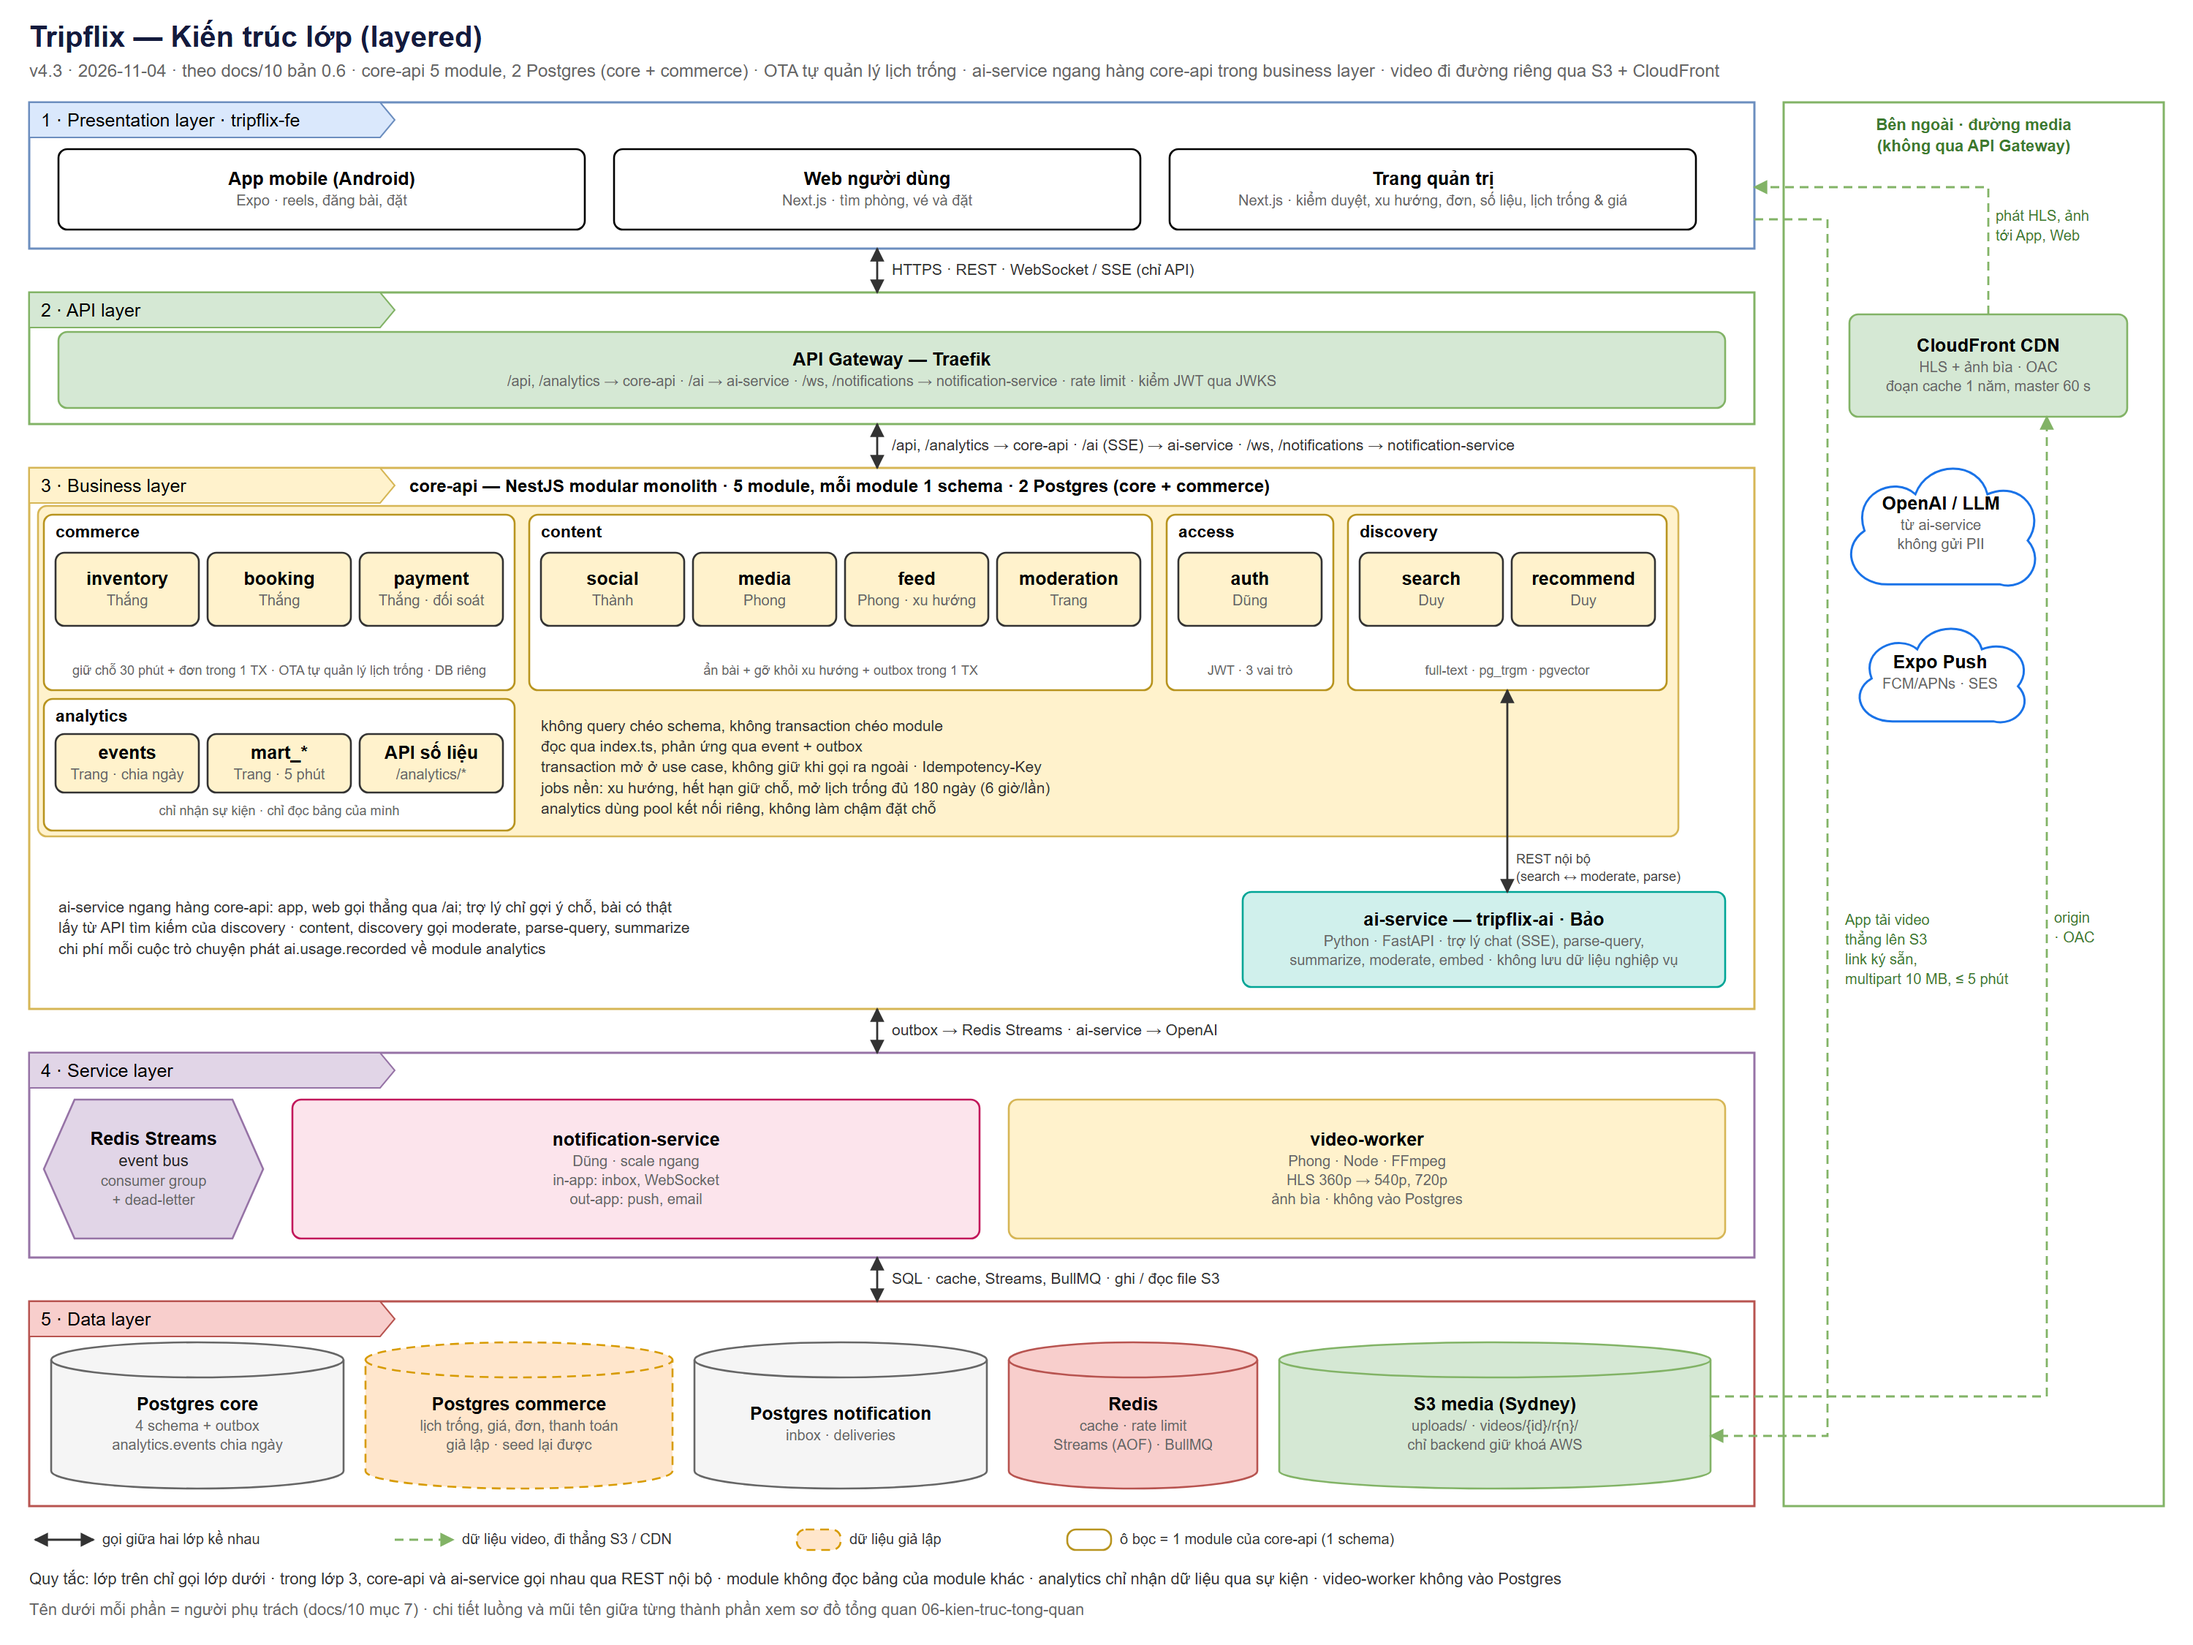
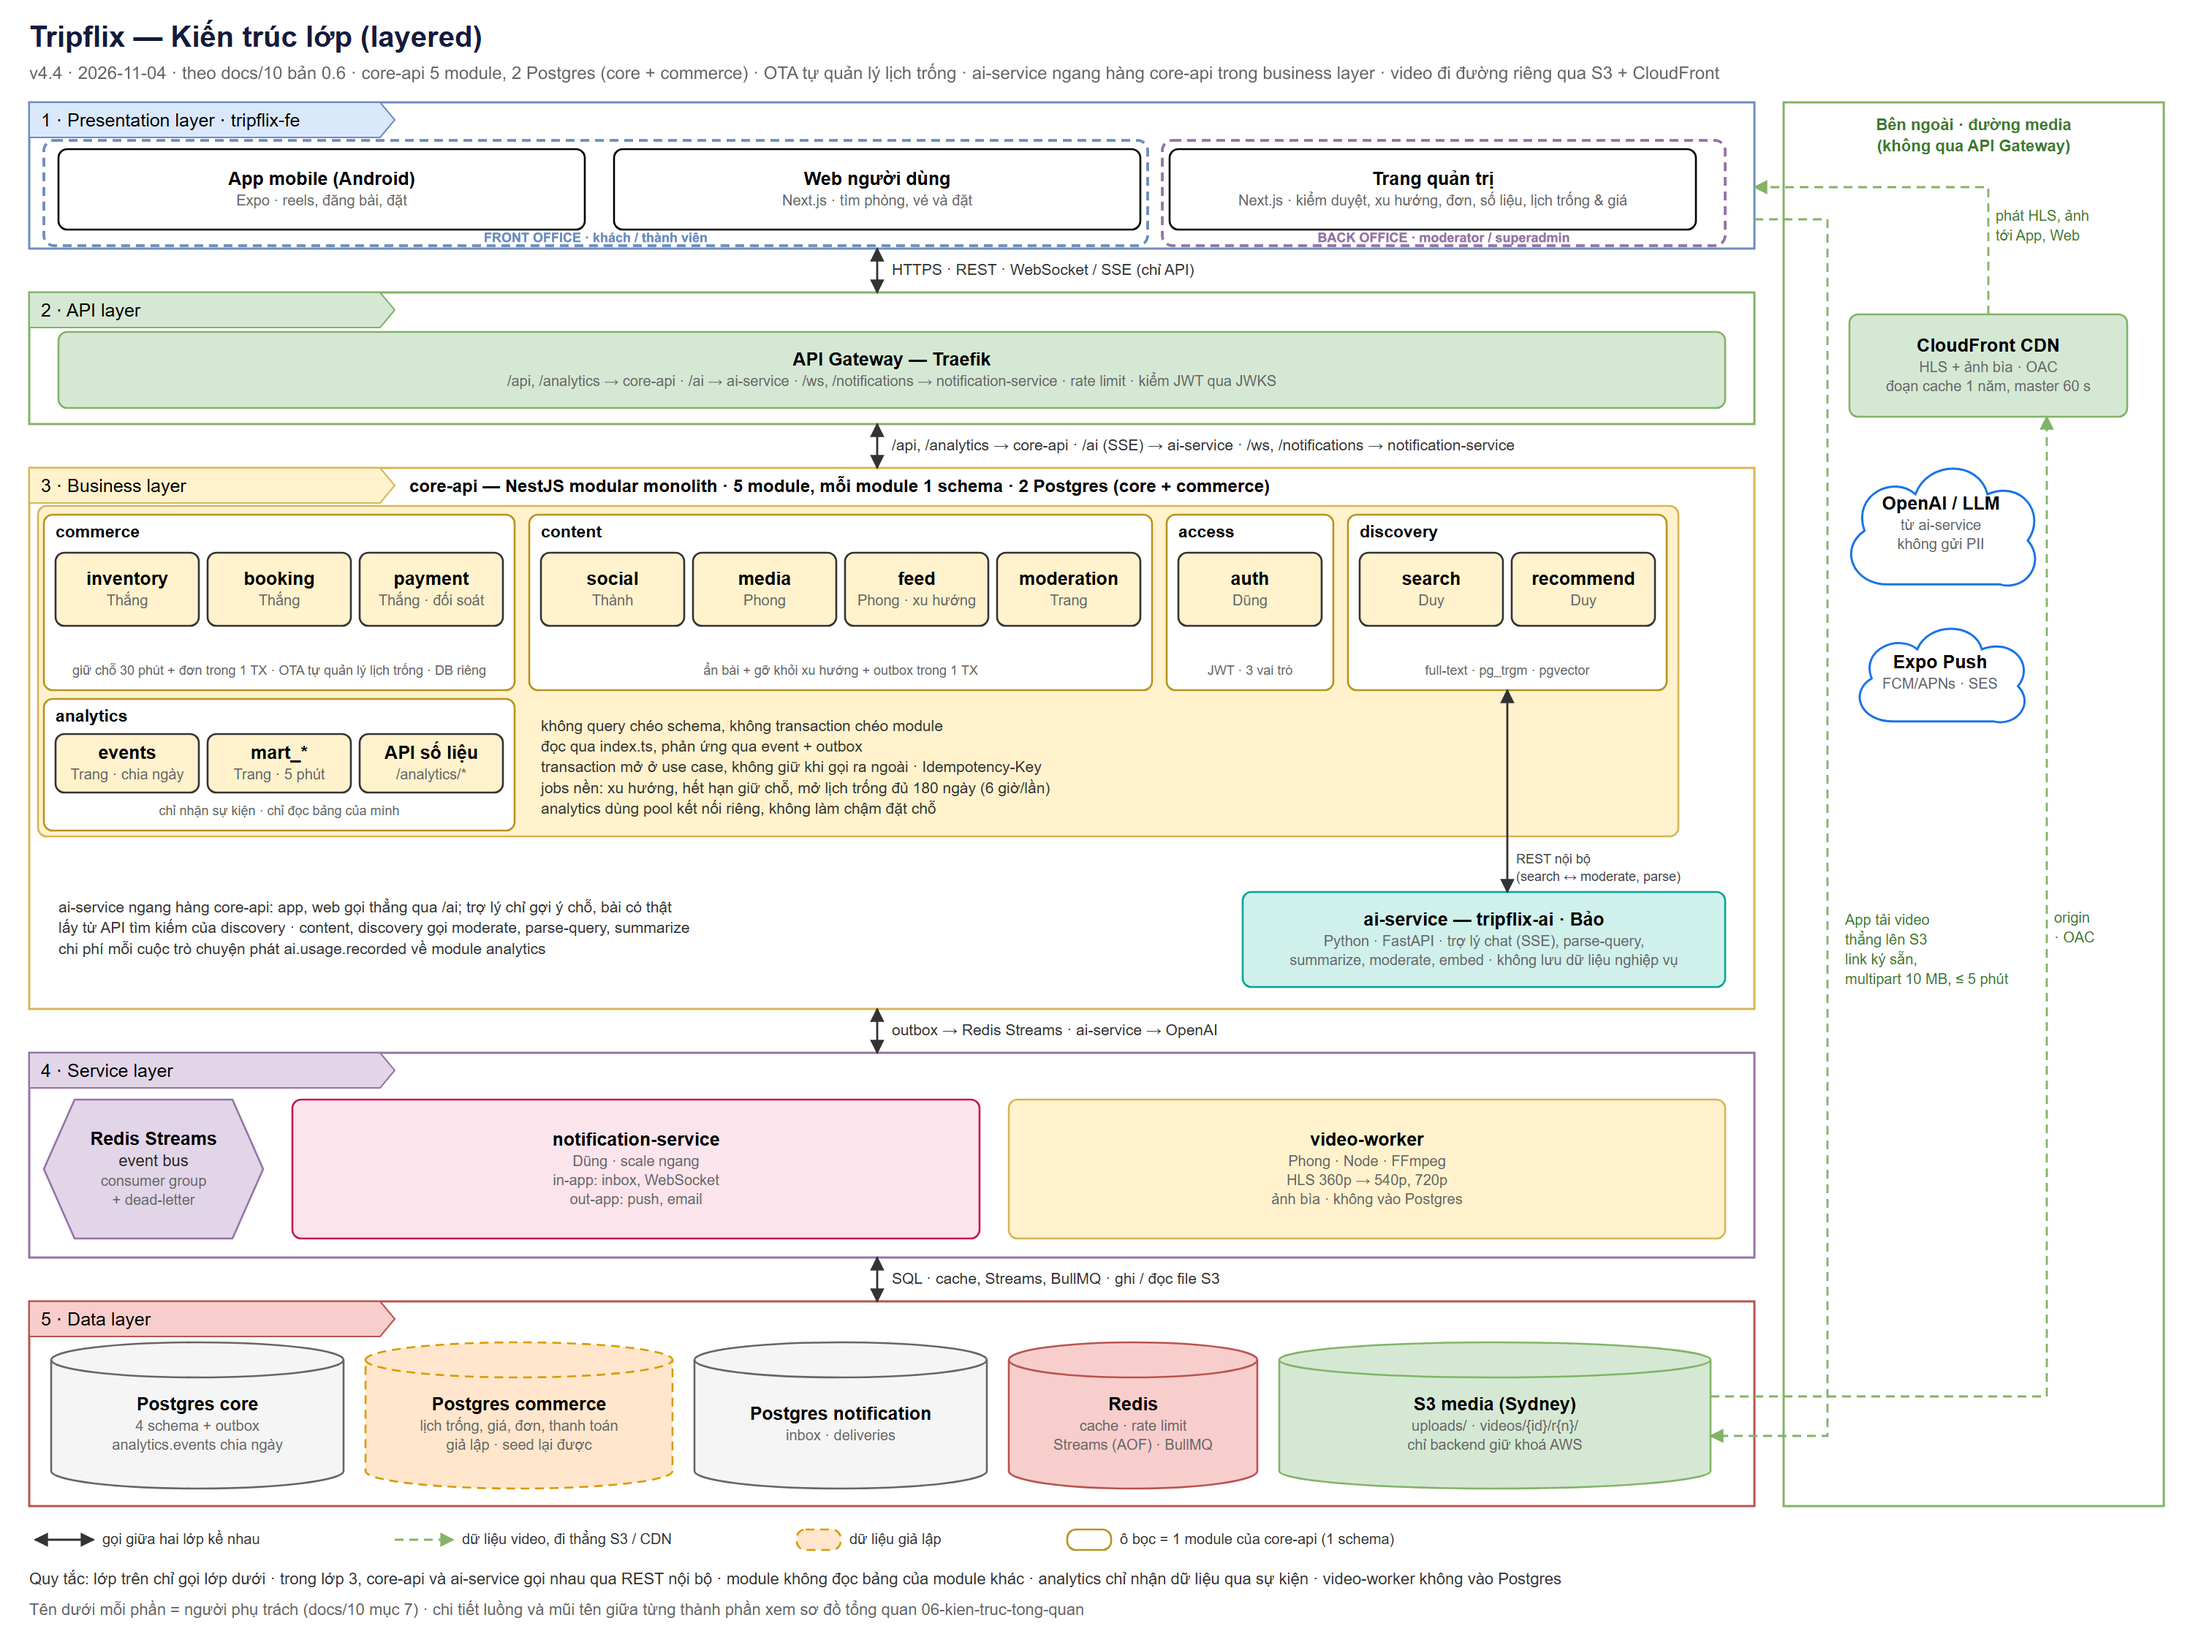
docs(repo): tách rõ Front Office và Back Office (TF57)
Phân nhóm app người dùng và admin trong sơ đồ; ghi rõ role và gateway dùng chung.

Refs: TF57

Changed region(s): [[0.031, 0.0311, 0.775, 0.0622], [0.589, 0.1244, 0.713, 0.1556], [0.217, 0.1244, 0.31, 0.1556]]

diff --git a/docs/architecture/10-de-xuat-kien-truc-va-repo.md b/docs/architecture/10-de-xuat-kien-truc-va-repo.md
@@ -66,10 +66,12 @@ Nguyên tắc chia module: **những gì phải đổi cùng nhau trong một tr
 
 ```mermaid
 flowchart TB
-  subgraph Clients
+  subgraph FO["Front Office — khách và thành viên"]
     APP[App mobile<br/>Expo]
     WEB[Web người dùng<br/>Next.js]
-    ADM[Trang quản trị<br/>Next.js]
+  end
+  subgraph BO["Back Office — vận hành nội bộ"]
+    ADM[Admin console<br/>moderator · superadmin]
   end
 
   GW[API Gateway<br/>rate limit, JWT, routing]
@@ -95,8 +97,9 @@ flowchart TB
   PUSH[[Expo Push · FCM/APNs · email]]
   LLM[[OpenAI / LLM]]
 
-  APP & WEB & ADM --> GW
-  GW -->|/api, /analytics| Core
+  APP & WEB -->|API public / member| GW
+  ADM -->|API quản trị · JWT role guard| GW
+  GW -->|/api, /admin, /analytics| Core
   GW -->|/notifications, /ws| NS
   GW -->|/ai, SSE| AI
 
@@ -112,6 +115,8 @@ flowchart TB
   APP & WEB -->|HLS| S3
 ```
 
+**Ranh giới Front Office / Back Office.** Front Office gồm app mobile và web công khai cho khách/thành viên (`member`): khám phá nội dung, tìm kiếm và đặt dịch vụ. Back Office là `apps/admin`, chỉ dành cho nhân sự nội bộ (`moderator`, `superadmin`): kiểm duyệt, analytics, xử lý đơn, quản lý lịch trống/giá và tài khoản nhân viên. Đây là hai bề mặt sản phẩm riêng nhưng dùng chung Traefik và `core-api`; quyền Back Office phải được kiểm tra ở API/service bằng role guard, không chỉ ẩn chức năng trên giao diện. MVP không có cổng riêng cho khách sạn/đối tác; Tripflix tự quản lý lịch trống và giá.
+
 ### 3.1. Các deployable
 
 | Deployable | Repo | Công nghệ | Sở hữu dữ liệu | Lý do tách |
@@ -120,7 +125,7 @@ flowchart TB
 | `notification-service` | BE | NestJS, BullMQ, Socket.IO | Postgres `notification` (database riêng) | Nhận sự kiện từ mọi module, tải theo đợt, scale ngang riêng |
 | `video-worker` | BE | Node + FFmpeg | Không; ghi kết quả vào S3, báo về core bằng sự kiện | CPU nặng, scale riêng |
 | `ai-service` | AI | Python, FastAPI | Không giữ dữ liệu nghiệp vụ | Ecosystem Python, vòng đánh giá riêng |
-| `mobile`, `web`, `admin` | FE | Expo, Next.js | — | — |
+| `mobile`, `web`, `admin` | FE | Expo, Next.js | — | Mobile/web là Front Office; admin là Back Office, API được role guard |
 
 `video-worker` và `notification-service` build từ cùng monorepo BE với `core-api` (dùng chung `libs/`), mỗi cái một entrypoint và một Dockerfile.
 
@@ -283,7 +288,7 @@ Chỉ mục có trễ vài giây cũng chỉ làm bài mới xuất hiện muộ
 
 ### 3.10. Xác thực: tự viết JWT trong module `access`
 
-Không dùng Keycloak. Hệ thống có 3 vai trò cố định (`member`, `moderator`, `superadmin`), không cần RBAC chi tiết.
+Không dùng Keycloak. Hệ thống có 3 vai trò cố định: `member` thuộc Front Office; `moderator` và `superadmin` thuộc Back Office. Phân quyền theo role cố định, không cần RBAC tuỳ biến chi tiết.
 
 | Thành phần | Cách làm |
 |---|---|

diff --git a/docs/architecture/11-de-xuat-cau-truc-repo.md b/docs/architecture/11-de-xuat-cau-truc-repo.md
@@ -259,7 +259,7 @@ Toàn bộ cách chạy bằng Docker ở §7.
 ```
 tripflix-fe/
 ├─ apps/
-│  ├─ mobile/                      # Expo SDK 56, Expo Router, Android trước
+│  ├─ mobile/                      # Front Office: Expo SDK 56, Expo Router, Android trước
 │  │  ├─ app/                      # route theo file: (tabs)/feed, explore, trips, inbox, me; post/[id]; checkout/…
 │  │  ├─ src/
 │  │  │  ├─ features/              # feed (PlayerPool, Preloader), post, search, booking, assistant, inbox, auth
@@ -267,12 +267,12 @@ tripflix-fe/
 │  │  │  └─ lib/                   # gắn token (expo-secure-store), hàng đợi thao tác dở khi mất mạng, gửi sự kiện hành vi
 │  │  ├─ app.config.ts
 │  │  └─ eas.json                  # profile build: development, preview (APK demo), production
-│  ├─ web/                         # Next.js 16, App Router, output: 'standalone'
+│  ├─ web/                         # Front Office: Next.js 16, App Router, output: 'standalone'
 │  │  ├─ Dockerfile
 │  │  └─ src/
 │  │     ├─ app/                   # tìm kiếm, bài đăng, chi tiết khách sạn, checkout, chuyến đi của tôi
 │  │     └─ features/
-│  └─ admin/                       # Next.js 16, output: 'standalone'
+│  └─ admin/                       # Back Office: Next.js 16, output: 'standalone'
 │     ├─ Dockerfile
 │     └─ src/
 │        ├─ app/                   # moderation/, analytics/, inventory/ (Lịch trống & giá), orders/, staff/
@@ -293,6 +293,12 @@ tripflix-fe/
 ├─ pnpm-workspace.yaml             # khai báo catalog: react, typescript, zod, @tanstack/react-query
 └─ package.json
 ```
+
+#### Ranh giới Front Office / Back Office
+
+- `apps/mobile` và `apps/web` là Front Office cho khách/thành viên; `apps/admin` là Back Office cho `moderator` và `superadmin`.
+- Hai phía là ứng dụng/giao diện riêng nhưng gọi cùng API Gateway và `core-api`. Back Office dùng các API quản trị trên module `content`, `analytics`, `commerce` và `access`; server bắt buộc kiểm role, không dựa vào ẩn nút ở client.
+- Chức năng Back Office gồm kiểm duyệt, analytics, đơn, lịch trống/giá và nhân viên. MVP chưa có portal cho khách sạn/đối tác.
 
 - Mobile không dùng `ui-web` (khác nền tảng) nhưng dùng chung `api-client`, `tokens`, `i18n`, `utils`. Cách viết style ở mobile (StyleSheet hay NativeWind) do chủ `apps/mobile` chọn.
 - Thư mục chia theo **tính năng** (`features/booking`) thay vì theo loại file, khớp với module BE để dễ tìm người phụ trách.

diff --git a/ARCHITECTURE.md b/ARCHITECTURE.md
@@ -4,15 +4,16 @@ AI agents: read this file and [RULES.md](RULES.md) before changing code.
 
 ## Canonical system architecture
 
-![Tripflix system architecture v4.3](docs/architecture/06-kien-truc-tong-quan.png)
+![Tripflix system architecture v4.4](docs/architecture/06-kien-truc-tong-quan.png)
 
-The diagram above is the canonical system view (v4.3, 2026-11-04). Keep the frontend aligned with it: the `tripflix-fe` repo contains the Expo Android app, the Next.js user website, and the Next.js admin site. They call backend services through Traefik over HTTPS APIs; video uploads go directly to S3, then playback uses CloudFront. Do not send video through the API Gateway.
+The diagram above is the canonical system view (v4.4, 2026-11-04). The presentation layer separates Front Office (`apps/mobile`, `apps/web`, for guests and members) from Back Office (`apps/admin`, for moderators and superadmins). These are distinct product surfaces that use the same Traefik gateway and `core-api`; admin permissions are enforced by backend role guards. Video uploads go directly to S3, then playback uses CloudFront. Do not send video through the API Gateway.
 
-The [editable diagram](docs/architecture/06-kien-truc-tong-quan.drawio) is the source for the preview. Supporting decisions and repo structure are in [architecture doc 10](docs/architecture/10-de-xuat-kien-truc-va-repo.md) and [architecture doc 11](docs/architecture/11-de-xuat-cau-truc-repo.md). If a supporting document conflicts with the v4.3 diagram, flag the conflict and follow the diagram until the architecture is reconciled.
+The [editable diagram](docs/architecture/06-kien-truc-tong-quan.drawio) is the source for the preview. Supporting decisions and repo structure are in [architecture doc 10](docs/architecture/10-de-xuat-kien-truc-va-repo.md) and [architecture doc 11](docs/architecture/11-de-xuat-cau-truc-repo.md). If a supporting document conflicts with the v4.4 diagram, flag the conflict and follow the diagram until the architecture is reconciled.
 
 ## Frontend boundaries
 
 - Keep Android, user web, and admin in their respective apps; put shared code in `packages/`.
+- Front Office (`mobile`, `web`) is for guests and members; Back Office (`admin`) is for `moderator` and `superadmin`. Do not treat client-side route hiding as authorization.
 - Call backend and AI APIs through `packages/api-client`. Generate contracts from the sibling `tripflix-be` and `tripflix-ai` repos.
 - Put user-facing Vietnamese text in `packages/i18n`; use design tokens from `packages/tokens`.
 - Keep platform-specific code inside the app that owns that platform. `packages/app-core` stays independent of React Native and React DOM.

diff --git a/docs/architecture/README.md b/docs/architecture/README.md
@@ -2,6 +2,8 @@
 
 These copies keep the approved system design beside the code so agents and contributors can read it locally.
 
+The v4.4 diagrams separate Front Office (mobile and public web) from Back Office (admin console) while showing their shared API Gateway and `core-api`.
+
 - [10 — System architecture](10-de-xuat-kien-truc-va-repo.md)
 - [11 — Repository structure](11-de-xuat-cau-truc-repo.md), the more recent decision when it differs from 10
 - Editable diagrams: [system overview](06-kien-truc-tong-quan.drawio), [layers](06-kien-truc-lop.drawio)
